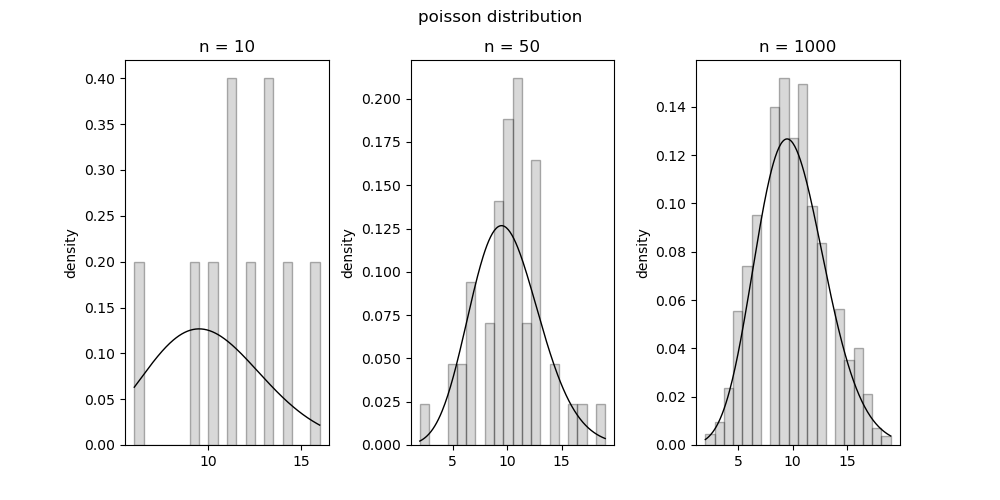
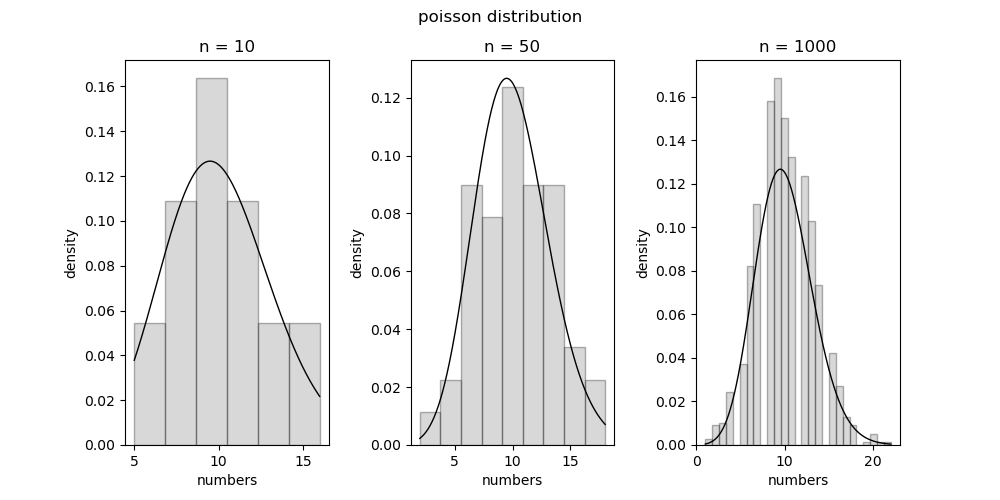
add report and cosmetic changes of the code

diff --git a/lab1_histogram/main.py b/lab1_histogram/main.py
@@ -6,11 +6,12 @@ from scipy.special import factorial
 from scipy import stats
 
 
+RANDOM_SEED = 166
 DIRECTORY_PLOTS = 'plots\\'
 
 
-def plot_distribution_histogram_with_density(distribution, size_list, bins):
-    DENSITY_POINTS_IN_BIN = 10
+def plot_distribution_histogram_with_density(distribution, size_list, bins=None):
+    DENSITY_POINTS_IN_BIN = 50
 
     fig_num = len(size_list)
     fig, ax = plt.subplots(1, fig_num, figsize=(10, 5))
@@ -19,19 +20,25 @@ def plot_distribution_histogram_with_density(distribution, size_list, bins):
     plt.suptitle(f'{distribution.name} distribution')
     for i, size in enumerate(size_list):
         data = distribution.f_data_generator(size)
-        density_x = np.linspace(data.min(), data.max(), num=bins*DENSITY_POINTS_IN_BIN, endpoint=True)
+
+        bins_num = bins if bins is not None else 3*int(np.power(size, 1/3))
+        density_x = np.linspace(data.min(), data.max(), num=bins_num*DENSITY_POINTS_IN_BIN, endpoint=True)
         density_y = np.vectorize(distribution.f_density)(density_x)
 
         ax[i].hist(data, density=True, histtype='bar', color='grey',
-                   edgecolor='black', alpha=0.3, bins=bins)
+                   edgecolor='black', alpha=0.3, bins=bins_num)
         ax[i].plot(density_x, density_y, color='black', linewidth=1)
         ax[i].set_title(f'n = {size}')
-        ax[i].set_ylabel("density")
+        ax[i].set_xlabel('numbers')
+        ax[i].set_ylabel('density')
 
     plt.savefig(f'{DIRECTORY_PLOTS}{distribution.name}')
 
 
 if __name__ == '__main__':
+
+    np.random.seed(RANDOM_SEED)
+
     normal = Distribution(
         'normal',
         lambda x: stats.norm.pdf(x),
@@ -61,6 +68,6 @@ if __name__ == '__main__':
     distributions = [normal, cauchy, laplace, poisson, uniform]
     size_list = [10, 50, 1000]
     for dist in distributions:
-        plot_distribution_histogram_with_density(dist, size_list, 20)
+        plot_distribution_histogram_with_density(dist, size_list)
 
     print('lab1')
